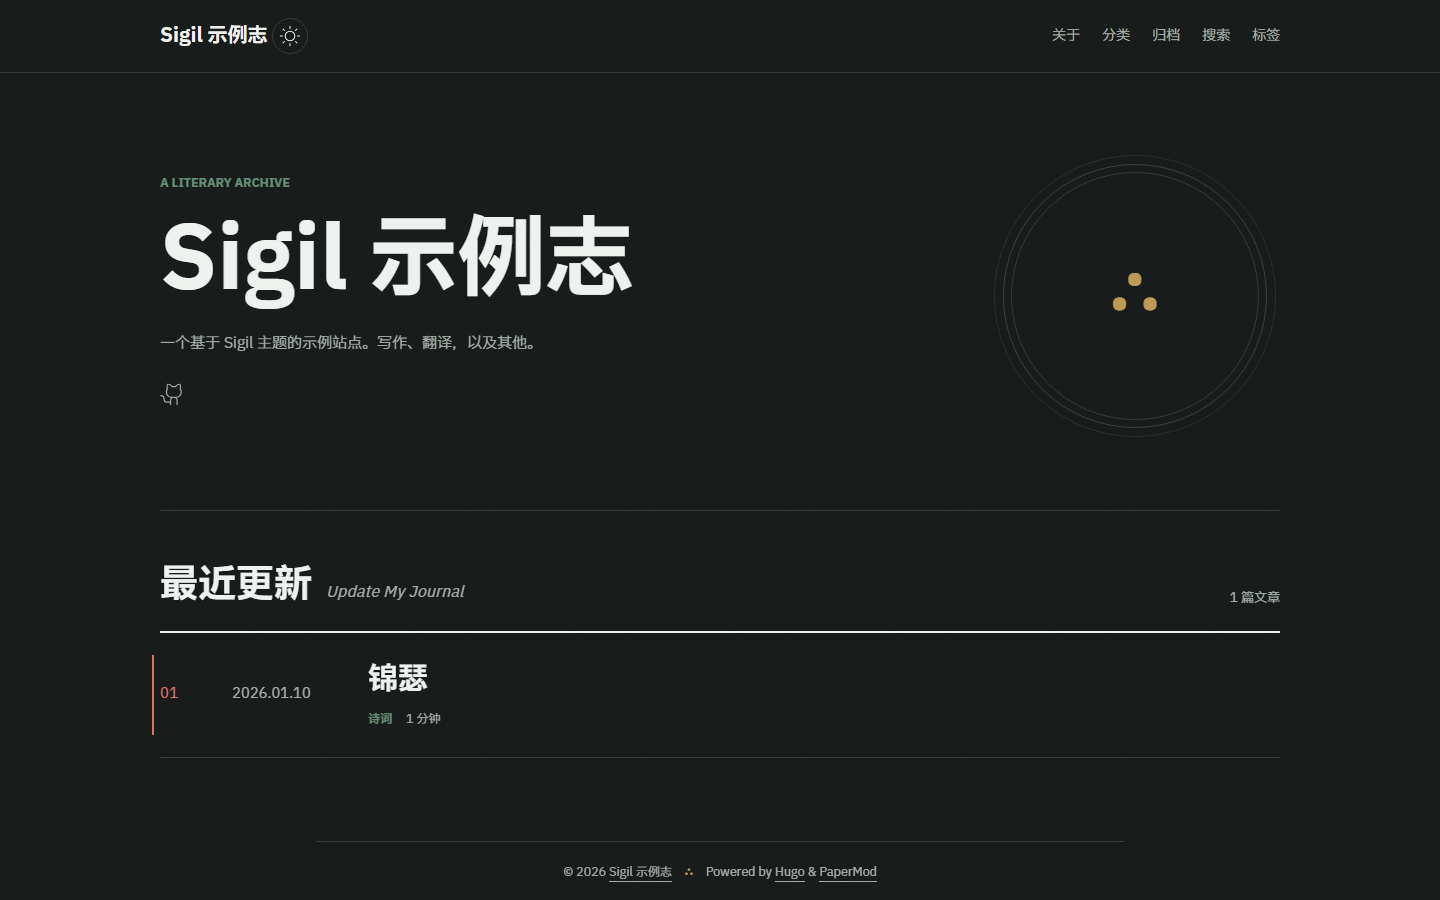
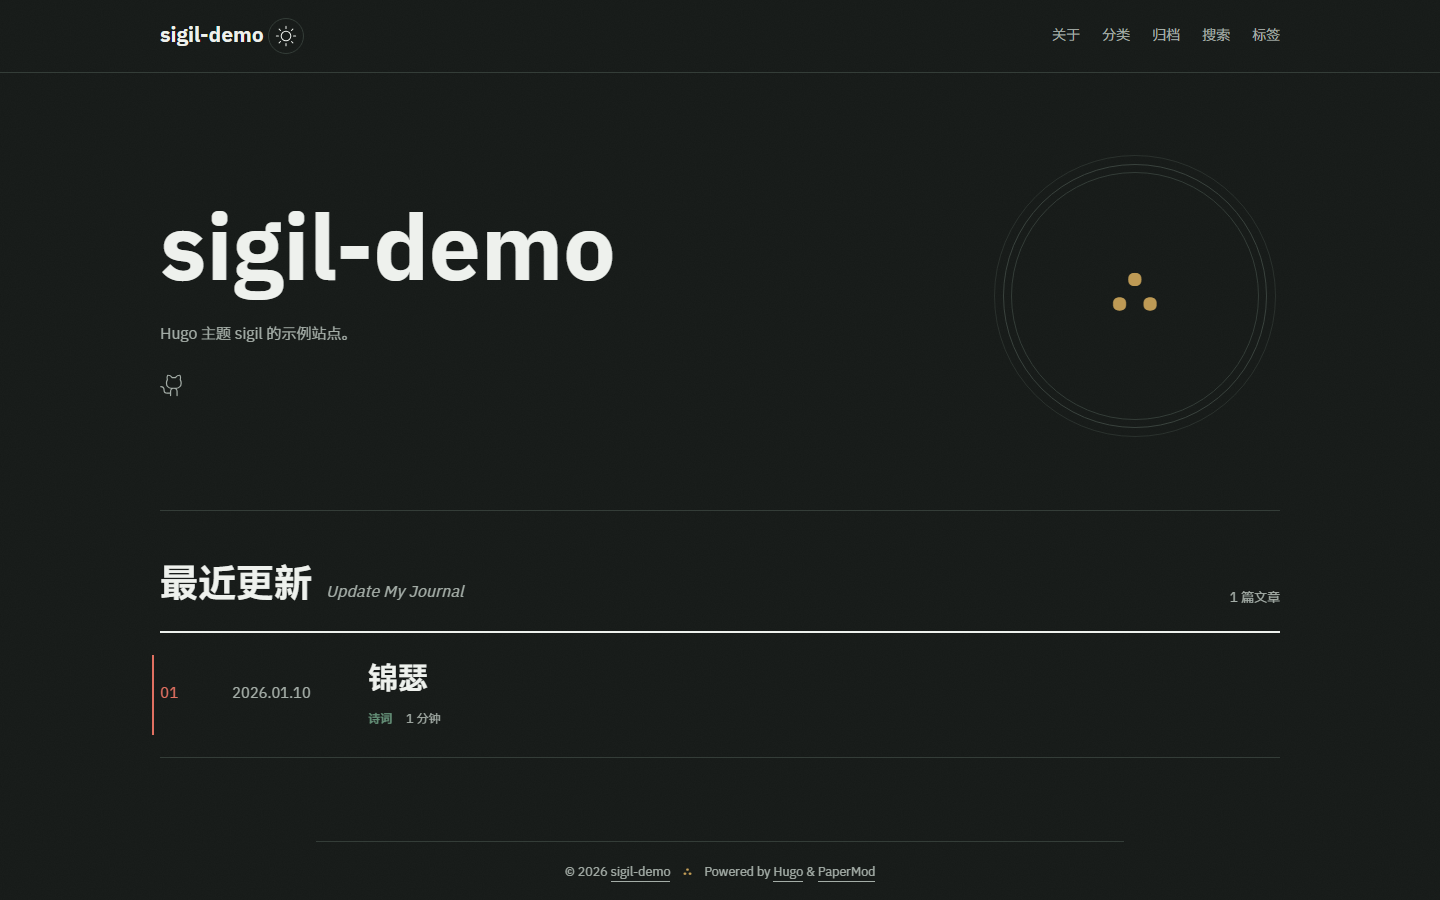
docs: neutral minimal positioning, rename demo site to sigil-demo

diff --git a/README.ja.md b/README.ja.md
@@ -2,17 +2,10 @@
 
 [中文](README.md) | [English](README.en.md) | **日本語**
 
-**A literary Hugo theme — ink, paper, and everything in threes.**
-（文学のための Hugo テーマ — インク、紙、そしてすべては三つでできている。）
-
-> [!IMPORTANT]
-> **このテーマは主に中国語の書き手のために作られています。** フォントの
-> サブセット pipeline、組み版の設定、欄幅と行間は、すべて中国語の読書体験を
-> 中心に設計されています。他の言語でも利用できますが、設計と最適化は中国語の読書体験を優先しています。
-> （中文说明见 [README.md](README.md)；For English, see [README.en.md](README.en.md)。）
+**シンプルな Hugo ブログテーマ。**
 
 [PaperMod](https://github.com/adityatelange/hugo-PaperMod)（MIT）を深くカスタム
-した文学系 Hugo テーマ：古紙の背景、朱・墨緑・琥珀の三色体系、IBM Plex Sans CJK の組み版、
+したシンプルな Hugo テーマ：古紙の背景、朱・墨緑・琥珀の三色体系、IBM Plex Sans CJK の組み版、
 Tufte 式の傍注、全文 RSS、そしてサイト内の使用文字だけを切り出すフォント
 サブセット pipeline。
 

diff --git a/README.md b/README.md
@@ -2,14 +2,9 @@
 
 中文 | [English](README.en.md) | [日本語](README.ja.md)
 
-**A literary Hugo theme — ink, paper, and everything in threes.**
+**一个简约的 Hugo 博客主题。**
 
-> [!IMPORTANT]
-> **本主题明确面向中文写作者。** 字体管线、排印参数、栏宽与行高，
-> 全部围绕中文阅读体验构建。其他语言可用，但设计与优化均以中文阅读体验为先。
-> (For English, see [README.en.md](README.en.md); 日本語は [README.ja.md](README.ja.md)。)
-
-一个面向中文写作者的文学 Hugo 主题：旧纸底色、朱砂·墨绿·琥珀三色体系、IBM Plex Sans CJK 排印、
+一个简约的 Hugo 博客主题：旧纸底色、朱砂·墨绿·琥珀三色体系、IBM Plex Sans CJK 排印、
 Tufte 式边注、全文 RSS 与按内容自动切片的字体子集管线。基于 [PaperMod](https://github.com/adityatelange/hugo-PaperMod)（MIT）深度定制。
 
 ![Screenshot](docs/screenshot.png)

diff --git a/README.en.md b/README.en.md
@@ -2,14 +2,9 @@
 
 [中文](README.md) | **English** | [日本語](README.ja.md)
 
-**A literary Hugo theme — ink, paper, and everything in threes.**
+**A minimal Hugo blog theme.**
 
-> [!IMPORTANT]
-> **This theme is built primarily for Chinese writers.** The font pipeline,
-> typographic settings, column width and line height all revolve around the
-> Chinese reading experience. Other languages work, but the design and optimization prioritize the Chinese reading experience. (中文说明见 [README.md](README.md)；日本語は [README.ja.md](README.ja.md)。)
-
-A literary Hugo theme based on a deep customization of
+A minimal Hugo theme based on a deep customization of
 [PaperMod](https://github.com/adityatelange/hugo-PaperMod) (MIT): an old-paper
 background, a three-color system of vermilion / ink-green / amber, IBM Plex Sans CJK
 typography, Tufte-style sidenotes, full-text RSS, and a font-subsetting
